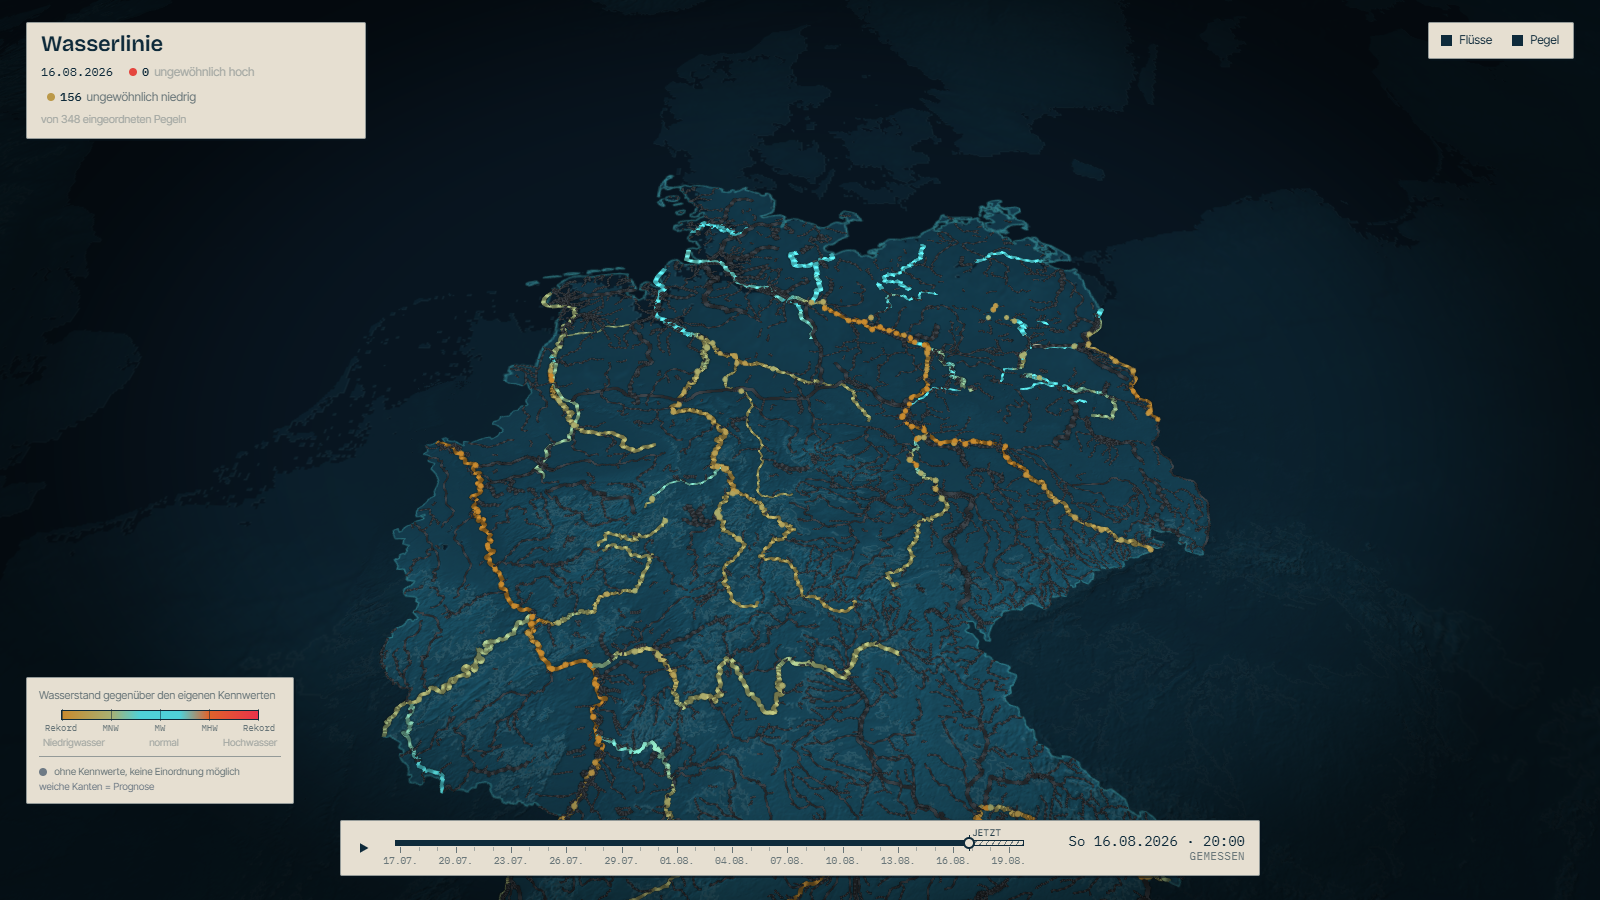
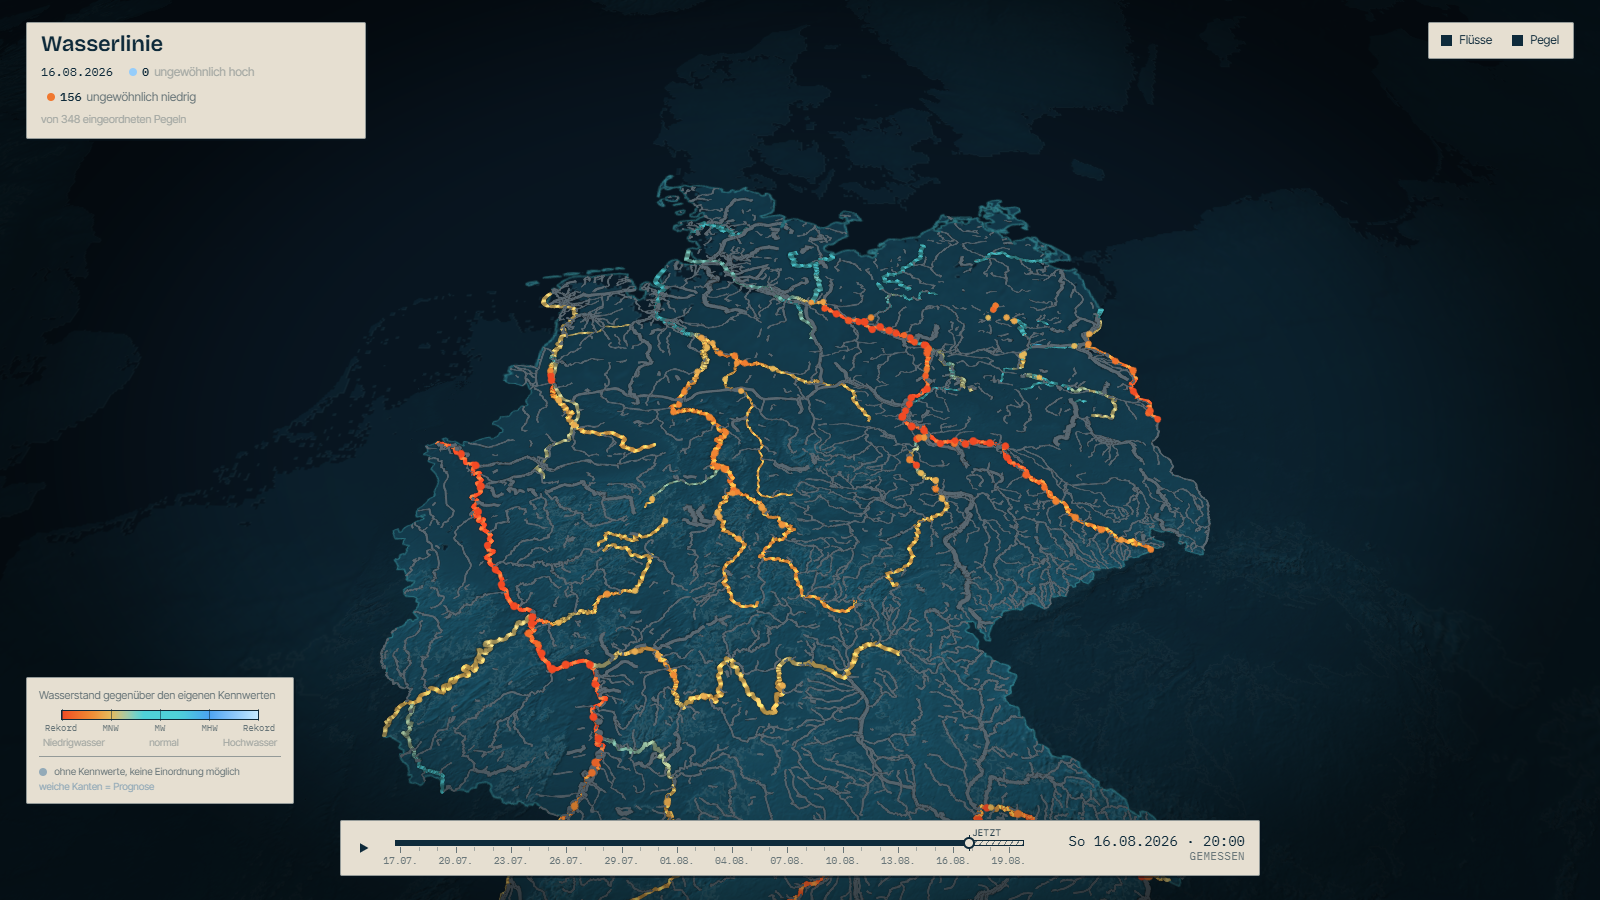
Rework the colour scale: warm for dry, cool for wet, Oklab between

diff --git a/src/tokens.ts b/src/tokens.ts
@@ -17,21 +17,35 @@ export type ColorName = keyof typeof color
 // named levels: -1 its record low, -0.5 mean low water, 0 mean water,
 // +0.5 mean high water, +1 its record high.
 //
-// The normal band is wide and quiet on purpose, so an ordinary day is a calm
-// turquoise country and anything else stands out. Both ends are warm, but the
-// dry end is desaturated and dim while the wet end is saturated and bright —
-// brightness, not hue alone, separates them.
+// Three properties are carried separately so none of them can be misread:
+//
+//   hue    which way. Warm means the water is leaving — sand, then amber, then
+//          the scorched red of a record low. Cool means it is rising, up to a
+//          near-white blue. Nothing warm can ever mean flood.
+//   glow   how unusual, in both directions. Normal is the dimmest point on the
+//          ramp, so a quiet country recedes and any departure lights up. An
+//          earlier version tied glow to the amount of water, which drew record
+//          lows dimmest of all — precisely the thing you want to see.
+//   speed  how much water there is: dry rivers crawl, full ones run.
+//
+// Stops are interpolated in Oklab (see layers/ramp.ts), so the way from amber
+// to turquoise stays clean instead of sinking through grey.
 export const anomalyRamp = [
-  { state: -1.0, color: '#C88A2E', glow: 0.55, speed: 0.3 },
-  { state: -0.5, color: '#A8B072', glow: 0.62, speed: 0.55 },
-  { state: -0.2, color: '#4FD1D9', glow: 0.72, speed: 1.0 },
-  { state: 0.2, color: '#4FD1D9', glow: 0.72, speed: 1.0 },
-  { state: 0.5, color: '#E0632B', glow: 0.88, speed: 1.6 },
-  { state: 1.0, color: '#E8324A', glow: 1.0, speed: 2.2 },
+  { state: -1.0, color: '#F04A24', glow: 1.0, speed: 0.25 },
+  { state: -0.7, color: '#EF8B34', glow: 0.82, speed: 0.4 },
+  { state: -0.5, color: '#E4BA5C', glow: 0.68, speed: 0.55 },
+  { state: -0.2, color: '#4FD1D9', glow: 0.5, speed: 0.85 },
+  { state: 0.2, color: '#4FD1D9', glow: 0.5, speed: 1.05 },
+  { state: 0.5, color: '#4BA3F0', glow: 0.78, speed: 1.5 },
+  { state: 1.0, color: '#C4E9FF', glow: 1.0, speed: 2.2 },
 ] as const
 
-/** Gauges with no reference levels get this: a statement that we cannot say. */
-export const unknownColor = '#6E7A85'
+/**
+ * Rivers and gauges we cannot judge. It has to sit clearly *above* the terrain
+ * in brightness — a grey darker than the ground turns the unmeasured network
+ * into dark cracks instead of quiet water.
+ */
+export const unknownColor = '#93AAB8'
 
 /** Beyond these the level counts as worth pointing at. */
 export const unusual = { low: -0.5, high: 0.5 } as const

diff --git a/src/layers/ramp.test.ts b/src/layers/ramp.test.ts
@@ -1,6 +1,6 @@
 import { describe, expect, it } from 'vitest'
 import { anomalyRamp, unknownColor } from '../tokens'
-import { RAMP_MAX, RAMP_MIN, RAMP_WIDTH, rampCss, rampPixels, sampleRamp } from './ramp'
+import { RAMP_MAX, RAMP_MIN, RAMP_WIDTH, rampCss, rampGradientCss, rampPixels, sampleRamp } from './ramp'
 
 describe('anomaly ramp', () => {
   it('returns each stop colour at its own state', () => {
@@ -16,12 +16,6 @@ describe('anomaly ramp', () => {
     const right = sampleRamp(0.2)
     expect(left.rgb).toEqual(right.rgb)
     expect(sampleRamp(0).rgb).toEqual(left.rgb)
-  })
-
-  it('is dim and slow when dry, bright and fast when wet', () => {
-    expect(sampleRamp(-1).glow).toBeLessThan(sampleRamp(0).glow)
-    expect(sampleRamp(1).glow).toBeGreaterThan(sampleRamp(0).glow)
-    expect(sampleRamp(-1).speed).toBeLessThan(sampleRamp(1).speed)
   })
 
   it('clamps beyond the ends instead of extrapolating a colour', () => {
@@ -47,5 +41,33 @@ describe('ramp texture', () => {
     const wet = sampleRamp(RAMP_MAX)
     const last = (RAMP_WIDTH * 2 - 1) * 4
     expect([px[last], px[last + 1], px[last + 2]]).toEqual(wet.rgb.map(Math.round))
+  })
+})
+
+describe('ramp semantics', () => {
+  it('is warm when dry and cool when wet', () => {
+    const dry = sampleRamp(-1)
+    const wet = sampleRamp(1)
+    expect(dry.rgb[0]).toBeGreaterThan(dry.rgb[2]) // red beats blue
+    expect(wet.rgb[2]).toBeGreaterThan(wet.rgb[0]) // blue beats red
+  })
+
+  it('is dimmest at normal and brightest at both extremes', () => {
+    const normal = sampleRamp(0).glow
+    expect(sampleRamp(-1).glow).toBeGreaterThan(normal)
+    expect(sampleRamp(1).glow).toBeGreaterThan(normal)
+    // A record low must not be drawn fainter than a record high.
+    expect(sampleRamp(-1).glow).toBeCloseTo(sampleRamp(1).glow, 5)
+  })
+
+  it('still runs slow when dry and fast when full', () => {
+    expect(sampleRamp(-1).speed).toBeLessThan(sampleRamp(0).speed)
+    expect(sampleRamp(1).speed).toBeGreaterThan(sampleRamp(0).speed)
+  })
+
+  it('gives the legend the same colours as the map', () => {
+    const css = rampGradientCss(4)
+    const mid = sampleRamp(0).rgb.map(Math.round).join(',')
+    expect(css).toContain(`rgb(${mid}) 50.0%`)
   })
 })

diff --git a/src/layers/oklab.ts b/src/layers/oklab.ts
@@ -1,0 +1,52 @@
+// Mixing two colours by averaging their sRGB numbers is not mixing light: the
+// halfway point between amber and turquoise comes out a muddy grey, because
+// sRGB is a storage encoding, not a perceptual one. Oklab is built so that
+// equal steps look like equal steps, which keeps a gradient clean end to end.
+//
+// Coefficients from Björn Ottosson's Oklab (2020), public domain.
+
+export type Rgb = [number, number, number]
+export type Lab = [number, number, number]
+
+const toLinear = (c: number): number => {
+  const v = c / 255
+  return v <= 0.04045 ? v / 12.92 : Math.pow((v + 0.055) / 1.055, 2.4)
+}
+
+const toSrgb = (c: number): number => {
+  const v = c <= 0.0031308 ? c * 12.92 : 1.055 * Math.pow(c, 1 / 2.4) - 0.055
+  return Math.min(255, Math.max(0, v * 255))
+}
+
+const cube = (x: number): number => x * x * x
+
+export function rgbToOklab([r, g, b]: Rgb): Lab {
+  const lr = toLinear(r)
+  const lg = toLinear(g)
+  const lb = toLinear(b)
+  const l = Math.cbrt(0.4122214708 * lr + 0.5363325363 * lg + 0.0514459929 * lb)
+  const m = Math.cbrt(0.2119034982 * lr + 0.6806995451 * lg + 0.1073969566 * lb)
+  const s = Math.cbrt(0.0883024619 * lr + 0.2817188376 * lg + 0.6299787005 * lb)
+  return [
+    0.2104542553 * l + 0.793617785 * m - 0.0040720468 * s,
+    1.9779984951 * l - 2.428592205 * m + 0.4505937099 * s,
+    0.0259040371 * l + 0.7827717662 * m - 0.808675766 * s,
+  ]
+}
+
+export function oklabToRgb([L, a, b]: Lab): Rgb {
+  const l = cube(L + 0.3963377774 * a + 0.2158037573 * b)
+  const m = cube(L - 0.1055613458 * a - 0.0638541728 * b)
+  const s = cube(L - 0.0894841775 * a - 1.291485548 * b)
+  return [
+    toSrgb(4.0767416621 * l - 3.3077115913 * m + 0.2309699292 * s),
+    toSrgb(-1.2684380046 * l + 2.6097574011 * m - 0.3413193965 * s),
+    toSrgb(-0.0041960863 * l - 0.7034186147 * m + 1.707614701 * s),
+  ]
+}
+
+export function mixOklab(a: Rgb, b: Rgb, t: number): Rgb {
+  const la = rgbToOklab(a)
+  const lb = rgbToOklab(b)
+  return oklabToRgb([la[0] + (lb[0] - la[0]) * t, la[1] + (lb[1] - la[1]) * t, la[2] + (lb[2] - la[2]) * t])
+}

diff --git a/src/layers/oklab.test.ts b/src/layers/oklab.test.ts
@@ -1,0 +1,41 @@
+import { describe, expect, it } from 'vitest'
+import { mixOklab, oklabToRgb, rgbToOklab, type Rgb } from './oklab'
+
+const round = (c: Rgb): Rgb => c.map(Math.round) as Rgb
+
+describe('oklab', () => {
+  it('round-trips a colour', () => {
+    for (const c of [[0, 0, 0], [255, 255, 255], [79, 209, 217], [240, 74, 36]] as Rgb[]) {
+      expect(round(oklabToRgb(rgbToOklab(c)))).toEqual(c)
+    }
+  })
+
+  it('returns the endpoints untouched', () => {
+    const a: Rgb = [228, 186, 92]
+    const b: Rgb = [79, 209, 217]
+    expect(round(mixOklab(a, b, 0))).toEqual(a)
+    expect(round(mixOklab(a, b, 1))).toEqual(b)
+  })
+
+  it('puts the midpoint halfway in perceived lightness', () => {
+    const amber: Rgb = [228, 186, 92]
+    const teal: Rgb = [79, 209, 217]
+    const lightness = (c: Rgb) => rgbToOklab(c)[0]
+    const want = (lightness(amber) + lightness(teal)) / 2
+    const naive = amber.map((c, i) => (c + teal[i]!) / 2) as Rgb
+    // Averaging sRGB numbers lands off the perceptual midpoint; Oklab does not.
+    expect(Math.abs(lightness(mixOklab(amber, teal, 0.5)) - want)).toBeLessThan(0.005)
+    expect(Math.abs(lightness(naive) - want)).toBeGreaterThan(0.005)
+  })
+
+  it('keeps lightness moving smoothly across a mix', () => {
+    const dark: Rgb = [20, 30, 40]
+    const light: Rgb = [200, 230, 255]
+    let last = -1
+    for (let t = 0; t <= 1.0001; t += 0.1) {
+      const l = rgbToOklab(mixOklab(dark, light, t))[0]
+      expect(l).toBeGreaterThan(last)
+      last = l
+    }
+  })
+})

diff --git a/src/layers/ramp.ts b/src/layers/ramp.ts
@@ -1,4 +1,5 @@
-import { anomalyRamp, hexToRgb, mixRgb, unknownColor } from '../tokens'
+import { anomalyRamp, hexToRgb, unknownColor } from '../tokens'
+import { mixOklab } from './oklab'
 
 // The ramp lives in tokens.ts as data. Here it becomes two things: a texture
 // the shader samples, and a plain function the UI and the gauge layer use, so
@@ -24,10 +25,25 @@ export function sampleRamp(state: number): RampSample {
   const b = stops[i + 1]!
   const t = b.state === a.state ? 0 : (s - a.state) / (b.state - a.state)
   return {
-    rgb: mixRgb(a.rgb, b.rgb, t),
+    rgb: mixOklab(a.rgb, b.rgb, t),
     glow: a.glow + (b.glow - a.glow) * t,
     speed: a.speed + (b.speed - a.speed) * t,
   }
+}
+
+/**
+ * The legend has to show the ramp the map actually uses. A CSS gradient would
+ * interpolate in sRGB and drift away from the Oklab one, so the stops are
+ * sampled from the same function the shader texture is built from.
+ */
+export function rampGradientCss(steps = 24): string {
+  const parts: string[] = []
+  for (let i = 0; i <= steps; i++) {
+    const f = i / steps
+    const { rgb } = sampleRamp(RAMP_MIN + f * (RAMP_MAX - RAMP_MIN))
+    parts.push(`rgb(${rgb.map(Math.round).join(',')}) ${(f * 100).toFixed(1)}%`)
+  }
+  return `linear-gradient(90deg, ${parts.join(', ')})`
 }
 
 export function rampCss(state: number | null): string {

diff --git a/src/ui/Legend.tsx b/src/ui/Legend.tsx
@@ -1,7 +1,6 @@
-import { anomalyRamp, unknownColor, unusual } from '../tokens'
-import { RAMP_MAX, RAMP_MIN, rampCss } from '../layers/ramp'
+import { unknownColor, unusual } from '../tokens'
+import { RAMP_MAX, RAMP_MIN, rampCss, rampGradientCss } from '../layers/ramp'
 
-const STOPS = anomalyRamp.map((s) => `${s.color} ${(((s.state - RAMP_MIN) / (RAMP_MAX - RAMP_MIN)) * 100).toFixed(0)}%`)
 const MARKS: { state: number; label: string }[] = [
   { state: -1, label: 'Rekord' },
   { state: unusual.low, label: 'MNW' },
@@ -16,7 +15,7 @@ export function Legend() {
   return (
     <figure className="legend-scale">
       <figcaption>Wasserstand gegenüber den eigenen Kennwerten</figcaption>
-      <div className="bar" style={{ background: `linear-gradient(90deg, ${STOPS.join(', ')})` }}>
+      <div className="bar" style={{ background: rampGradientCss() }}>
         {MARKS.map((m) => (
           <span key={m.state} className="mark" style={{ left: pos(m.state) }} />
         ))}

diff --git a/src/layers/rivers.ts b/src/layers/rivers.ts
@@ -18,7 +18,7 @@ import type { FrameInfo, LayerContext, VisualLayer } from './plugin'
 
 const WIDTH_PX: Record<number, number> = { 200: 12, 125: 9, 42: 6.5, 12: 5 }
 const BASE_WIDTH = 0.5
-const BACKGROUND_INTENSITY = 0.6
+const BACKGROUND_INTENSITY = 0.38
 const HOUR = 3_600_000
 
 function widthFor(cls: number): number {

diff --git a/README.md b/README.md
@@ -5,9 +5,10 @@
 Germany's river network as a living map, coloured by how unusual the water is
 **for each gauge**. A raw "312 cm" tells you nothing; the same reading placed
 against that gauge's own mean low water, mean water and record levels tells
-you at a glance whether a river is running dry. Rivers below their mean low
-water turn ochre and slow down, normal water stays turquoise, high water goes
-red and quickens. Drag the time slider and the whole network moves with it;
+you at a glance whether a river is running dry. Warm means the water is
+leaving — sand, amber, then the red of a record low. Cool means it is rising.
+Normal is the dimmest point on the scale, so a quiet country recedes and
+anything unusual lights up, in either direction. Drag the time slider and the whole network moves with it;
 push past "now" and it becomes a forecast, visibly softer the further it goes.
 
 [![CI](https://github.com/Naxter/wasserlinie/actions/workflows/ci.yml/badge.svg)](https://github.com/Naxter/wasserlinie/actions/workflows/ci.yml)
